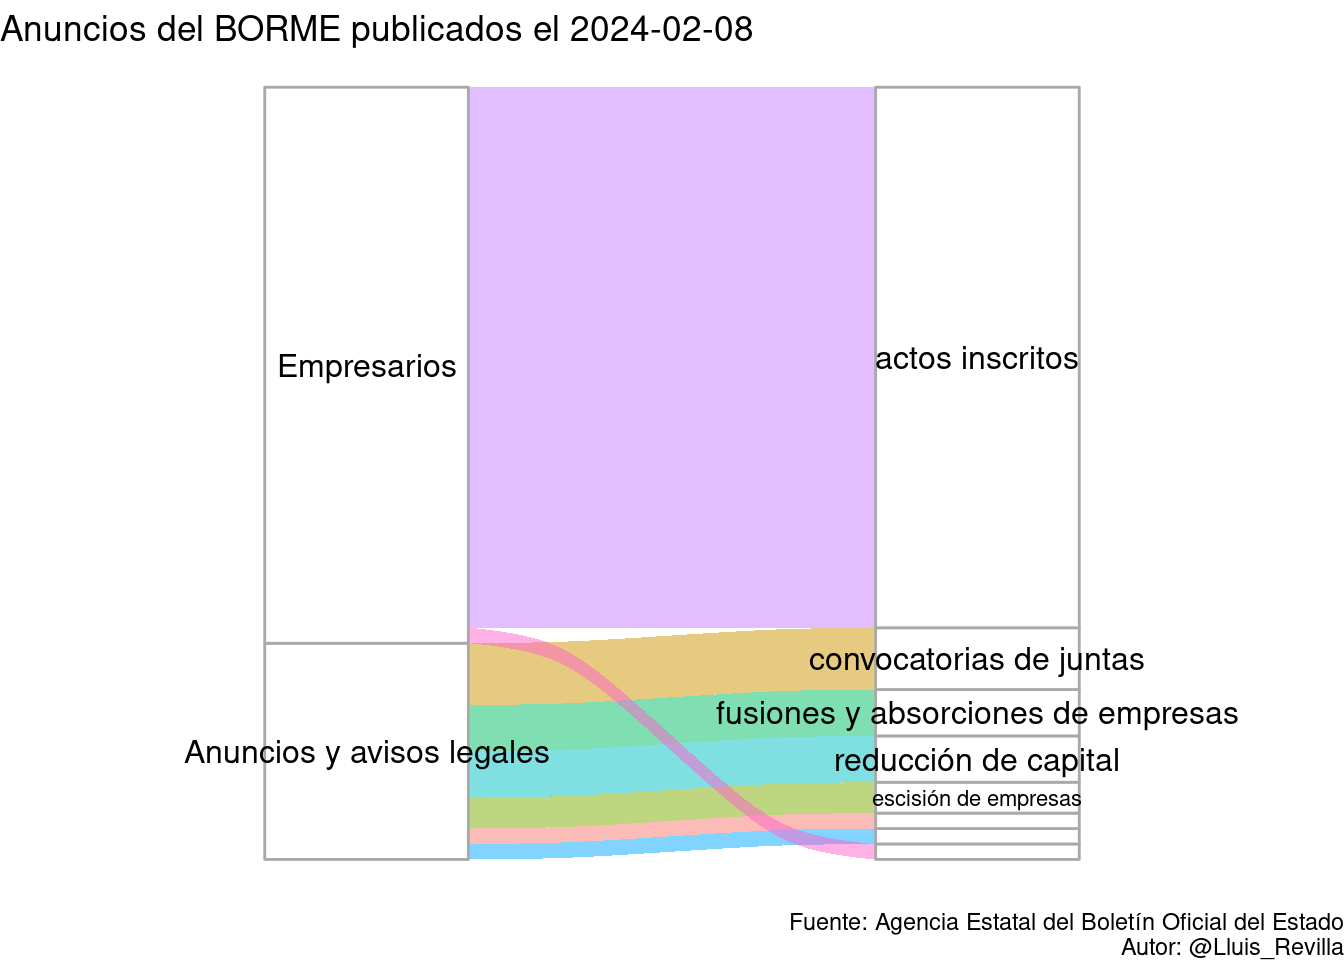
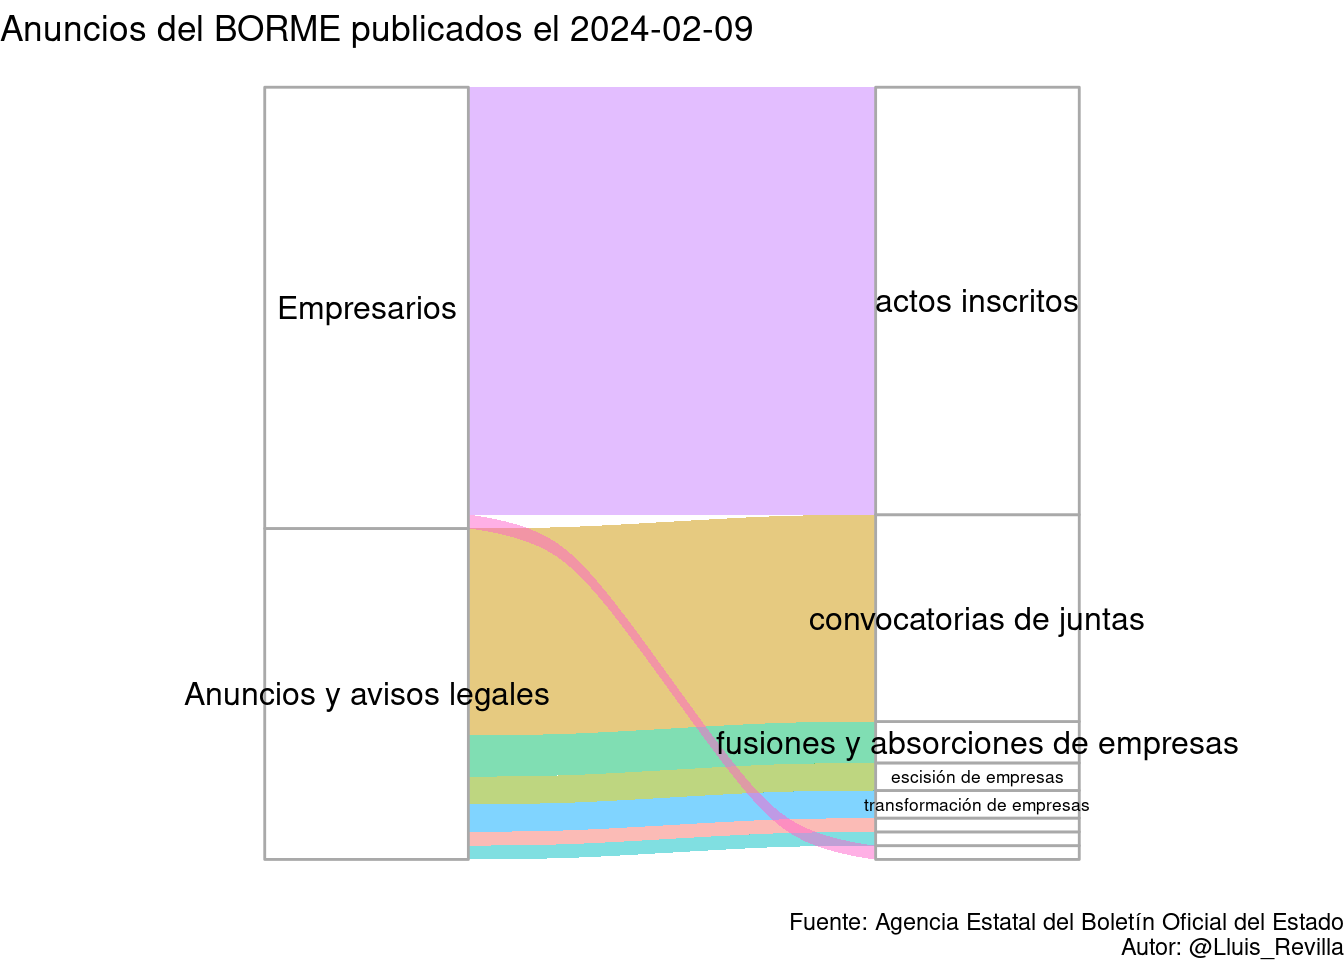
Update BORME

diff --git a/docs/last_BORME.html b/docs/last_BORME.html
@@ -379,14 +379,14 @@ $(document).ready(function () {
 
 <div id="resumen-gráfico" class="section level1">
 <h1>Resumen gráfico</h1>
-<p>Esta página web contiene el último sumario del BORME publicado el 2024-02-08 con 50 publicaciones.</p>
+<p>Esta página web contiene el último sumario del BORME publicado el 2024-02-09 con 56 publicaciones.</p>
 <p><img src="last_BORME_files/figure-html/graphics-1.png" width="672" /></p>
 </div>
 <div id="tabla-de-publicaciones" class="section level1">
 <h1>Tabla de publicaciones</h1>
 <p>Aquí está la tabla completa con enlaces a las publicaciones:</p>
-<div class="datatables html-widget html-fill-item-overflow-hidden html-fill-item" id="htmlwidget-0fc75fa31b694778085e" style="width:100%;height:auto;"></div>
-<script type="application/json" data-for="htmlwidget-0fc75fa31b694778085e">{"x":{"filter":"top","vertical":false,"filterHTML":"<tr>\n  <td><\/td>\n  <td data-type=\"character\" style=\"vertical-align: top;\">\n    <div class=\"form-group has-feedback\" style=\"margin-bottom: auto;\">\n      <input type=\"search\" placeholder=\"All\" class=\"form-control\" style=\"width: 100%;\"/>\n      <span class=\"glyphicon glyphicon-remove-circle form-control-feedback\"><\/span>\n    <\/div>\n  <\/td>\n  <td data-type=\"character\" style=\"vertical-align: top;\">\n    <div class=\"form-group has-feedback\" style=\"margin-bottom: auto;\">\n      <input type=\"search\" placeholder=\"All\" class=\"form-control\" style=\"width: 100%;\"/>\n      <span class=\"glyphicon glyphicon-remove-circle form-control-feedback\"><\/span>\n    <\/div>\n  <\/td>\n  <td data-type=\"character\" style=\"vertical-align: top;\">\n    <div class=\"form-group has-feedback\" style=\"margin-bottom: auto;\">\n      <input type=\"search\" placeholder=\"All\" class=\"form-control\" style=\"width: 100%;\" disabled=\"\"/>\n      <span class=\"glyphicon glyphicon-remove-circle form-control-feedback\"><\/span>\n    <\/div>\n  <\/td>\n  <td data-type=\"character\" style=\"vertical-align: top;\">\n    <div class=\"form-group has-feedback\" style=\"margin-bottom: auto;\">\n      <input type=\"search\" placeholder=\"All\" class=\"form-control\" style=\"width: 100%;\"/>\n      <span class=\"glyphicon glyphicon-remove-circle form-control-feedback\"><\/span>\n    <\/div>\n  <\/td>\n<\/tr>","data":[["1","2","3","4","5","6","7","8","9","10","11","12","13","14","15","16","17","18","19","20","21","22","23","24","25","26","27","28","29","30","31","32","33","34","35","36","37","38","39","40","41","42","43","44","45","46","47","48","49","50"],["SECCIÓN PRIMERA. Empresarios","SECCIÓN PRIMERA. Empresarios","SECCIÓN PRIMERA. Empresarios","SECCIÓN PRIMERA. Empresarios","SECCIÓN PRIMERA. Empresarios","SECCIÓN PRIMERA. Empresarios","SECCIÓN PRIMERA. Empresarios","SECCIÓN PRIMERA. Empresarios","SECCIÓN PRIMERA. Empresarios","SECCIÓN PRIMERA. Empresarios","SECCIÓN PRIMERA. Empresarios","SECCIÓN PRIMERA. Empresarios","SECCIÓN PRIMERA. Empresarios","SECCIÓN PRIMERA. Empresarios","SECCIÓN PRIMERA. Empresarios","SECCIÓN PRIMERA. Empresarios","SECCIÓN PRIMERA. Empresarios","SECCIÓN PRIMERA. Empresarios","SECCIÓN PRIMERA. Empresarios","SECCIÓN PRIMERA. Empresarios","SECCIÓN PRIMERA. Empresarios","SECCIÓN PRIMERA. Empresarios","SECCIÓN PRIMERA. Empresarios","SECCIÓN PRIMERA. Empresarios","SECCIÓN PRIMERA. Empresarios","SECCIÓN PRIMERA. Empresarios","SECCIÓN PRIMERA. Empresarios","SECCIÓN PRIMERA. Empresarios","SECCIÓN PRIMERA. Empresarios","SECCIÓN PRIMERA. Empresarios","SECCIÓN PRIMERA. Empresarios","SECCIÓN PRIMERA. Empresarios","SECCIÓN PRIMERA. Empresarios","SECCIÓN PRIMERA. Empresarios","SECCIÓN PRIMERA. Empresarios","SECCIÓN PRIMERA. Empresarios","SECCIÓN SEGUNDA. Anuncios y avisos legales","SECCIÓN SEGUNDA. Anuncios y avisos legales","SECCIÓN SEGUNDA. Anuncios y avisos legales","SECCIÓN SEGUNDA. Anuncios y avisos legales","SECCIÓN SEGUNDA. Anuncios y avisos legales","SECCIÓN SEGUNDA. Anuncios y avisos legales","SECCIÓN SEGUNDA. Anuncios y avisos legales","SECCIÓN SEGUNDA. Anuncios y avisos legales","SECCIÓN SEGUNDA. Anuncios y avisos legales","SECCIÓN SEGUNDA. Anuncios y avisos legales","SECCIÓN SEGUNDA. Anuncios y avisos legales","SECCIÓN SEGUNDA. Anuncios y avisos legales","SECCIÓN SEGUNDA. Anuncios y avisos legales","SECCIÓN SEGUNDA. Anuncios y avisos legales"],["Actos inscritos","Actos inscritos","Actos inscritos","Actos inscritos","Actos inscritos","Actos inscritos","Actos inscritos","Actos inscritos","Actos inscritos","Actos inscritos","Actos inscritos","Actos inscritos","Actos inscritos","Actos inscritos","Actos inscritos","Actos inscritos","Actos inscritos","Actos inscritos","Actos inscritos","Actos inscritos","Actos inscritos","Actos inscritos","Actos inscritos","Actos inscritos","Actos inscritos","Actos inscritos","Actos inscritos","Actos inscritos","Actos inscritos","Actos inscritos","Actos inscritos","Actos inscritos","Actos inscritos","Actos inscritos","Actos inscritos","Otros actos publicados en el Registro Mercantil","CONVOCATORIAS DE JUNTAS","CONVOCATORIAS DE JUNTAS","CONVOCATORIAS DE JUNTAS","CONVOCATORIAS DE JUNTAS","FUSIONES Y ABSORCIONES DE EMPRESAS","FUSIONES Y ABSORCIONES DE EMPRESAS","FUSIONES Y ABSORCIONES DE EMPRESAS","ESCISIÓN DE EMPRESAS","ESCISIÓN DE EMPRESAS","TRANSFORMACIÓN DE EMPRESAS","AUMENTO DE CAPITAL","REDUCCIÓN DE CAPITAL","REDUCCIÓN DE CAPITAL","REDUCCIÓN DE CAPITAL"],[null,null,null,null,null,null,null,null,null,null,null,null,null,null,null,null,null,null,null,null,null,null,null,null,null,null,null,null,null,null,null,null,null,null,null,null,null,null,null,null,null,null,null,null,null,null,null,null,null,null],["BORME-A-2024-28-02","BORME-A-2024-28-03","BORME-A-2024-28-04","BORME-A-2024-28-06","BORME-A-2024-28-07","BORME-A-2024-28-08","BORME-A-2024-28-09","BORME-A-2024-28-11","BORME-A-2024-28-13","BORME-A-2024-28-14","BORME-A-2024-28-15","BORME-A-2024-28-16","BORME-A-2024-28-17","BORME-A-2024-28-18","BORME-A-2024-28-22","BORME-A-2024-28-27","BORME-A-2024-28-28","BORME-A-2024-28-29","BORME-A-2024-28-30","BORME-A-2024-28-31","BORME-A-2024-28-32","BORME-A-2024-28-33","BORME-A-2024-28-35","BORME-A-2024-28-36","BORME-A-2024-28-38","BORME-A-2024-28-40","BORME-A-2024-28-42","BORME-A-2024-28-43","BORME-A-2024-28-45","BORME-A-2024-28-46","BORME-A-2024-28-47","BORME-A-2024-28-48","BORME-A-2024-28-49","BORME-A-2024-28-52","BORME-A-2024-28-99","BORME-B-2024-28-32","BORME-C-2024-409","BORME-C-2024-410","BORME-C-2024-411","BORME-C-2024-412","BORME-C-2024-413","BORME-C-2024-414","BORME-C-2024-415","BORME-C-2024-416","BORME-C-2024-417","BORME-C-2024-418","BORME-C-2024-419","BORME-C-2024-420","BORME-C-2024-421","BORME-C-2024-422"]],"container":"<table class=\"display\">\n  <thead>\n    <tr>\n      <th> <\/th>\n      <th>Sección<\/th>\n      <th>Emisor<\/th>\n      <th>Texto<\/th>\n      <th>Link<\/th>\n    <\/tr>\n  <\/thead>\n<\/table>","options":{"pageLength":10,"autoWidth":true,"columnDefs":[{"orderable":false,"targets":0},{"name":" ","targets":0},{"name":"Sección","targets":1},{"name":"Emisor","targets":2},{"name":"Texto","targets":3},{"name":"Link","targets":4}],"order":[],"orderClasses":false,"orderCellsTop":true}},"evals":[],"jsHooks":[]}</script>
+<div class="datatables html-widget html-fill-item-overflow-hidden html-fill-item" id="htmlwidget-b404a2050a033b5b77ad" style="width:100%;height:auto;"></div>
+<script type="application/json" data-for="htmlwidget-b404a2050a033b5b77ad">{"x":{"filter":"top","vertical":false,"filterHTML":"<tr>\n  <td><\/td>\n  <td data-type=\"character\" style=\"vertical-align: top;\">\n    <div class=\"form-group has-feedback\" style=\"margin-bottom: auto;\">\n      <input type=\"search\" placeholder=\"All\" class=\"form-control\" style=\"width: 100%;\"/>\n      <span class=\"glyphicon glyphicon-remove-circle form-control-feedback\"><\/span>\n    <\/div>\n  <\/td>\n  <td data-type=\"character\" style=\"vertical-align: top;\">\n    <div class=\"form-group has-feedback\" style=\"margin-bottom: auto;\">\n      <input type=\"search\" placeholder=\"All\" class=\"form-control\" style=\"width: 100%;\"/>\n      <span class=\"glyphicon glyphicon-remove-circle form-control-feedback\"><\/span>\n    <\/div>\n  <\/td>\n  <td data-type=\"character\" style=\"vertical-align: top;\">\n    <div class=\"form-group has-feedback\" style=\"margin-bottom: auto;\">\n      <input type=\"search\" placeholder=\"All\" class=\"form-control\" style=\"width: 100%;\" disabled=\"\"/>\n      <span class=\"glyphicon glyphicon-remove-circle form-control-feedback\"><\/span>\n    <\/div>\n  <\/td>\n  <td data-type=\"character\" style=\"vertical-align: top;\">\n    <div class=\"form-group has-feedback\" style=\"margin-bottom: auto;\">\n      <input type=\"search\" placeholder=\"All\" class=\"form-control\" style=\"width: 100%;\"/>\n      <span class=\"glyphicon glyphicon-remove-circle form-control-feedback\"><\/span>\n    <\/div>\n  <\/td>\n<\/tr>","data":[["1","2","3","4","5","6","7","8","9","10","11","12","13","14","15","16","17","18","19","20","21","22","23","24","25","26","27","28","29","30","31","32","33","34","35","36","37","38","39","40","41","42","43","44","45","46","47","48","49","50","51","52","53","54","55","56"],["SECCIÓN PRIMERA. Empresarios","SECCIÓN PRIMERA. Empresarios","SECCIÓN PRIMERA. Empresarios","SECCIÓN PRIMERA. Empresarios","SECCIÓN PRIMERA. Empresarios","SECCIÓN PRIMERA. Empresarios","SECCIÓN PRIMERA. Empresarios","SECCIÓN PRIMERA. Empresarios","SECCIÓN PRIMERA. Empresarios","SECCIÓN PRIMERA. Empresarios","SECCIÓN PRIMERA. Empresarios","SECCIÓN PRIMERA. Empresarios","SECCIÓN PRIMERA. Empresarios","SECCIÓN PRIMERA. Empresarios","SECCIÓN PRIMERA. Empresarios","SECCIÓN PRIMERA. Empresarios","SECCIÓN PRIMERA. Empresarios","SECCIÓN PRIMERA. Empresarios","SECCIÓN PRIMERA. Empresarios","SECCIÓN PRIMERA. Empresarios","SECCIÓN PRIMERA. Empresarios","SECCIÓN PRIMERA. Empresarios","SECCIÓN PRIMERA. Empresarios","SECCIÓN PRIMERA. Empresarios","SECCIÓN PRIMERA. Empresarios","SECCIÓN PRIMERA. Empresarios","SECCIÓN PRIMERA. Empresarios","SECCIÓN PRIMERA. Empresarios","SECCIÓN PRIMERA. Empresarios","SECCIÓN PRIMERA. Empresarios","SECCIÓN PRIMERA. Empresarios","SECCIÓN PRIMERA. Empresarios","SECCIÓN SEGUNDA. Anuncios y avisos legales","SECCIÓN SEGUNDA. Anuncios y avisos legales","SECCIÓN SEGUNDA. Anuncios y avisos legales","SECCIÓN SEGUNDA. Anuncios y avisos legales","SECCIÓN SEGUNDA. Anuncios y avisos legales","SECCIÓN SEGUNDA. Anuncios y avisos legales","SECCIÓN SEGUNDA. Anuncios y avisos legales","SECCIÓN SEGUNDA. Anuncios y avisos legales","SECCIÓN SEGUNDA. Anuncios y avisos legales","SECCIÓN SEGUNDA. Anuncios y avisos legales","SECCIÓN SEGUNDA. Anuncios y avisos legales","SECCIÓN SEGUNDA. Anuncios y avisos legales","SECCIÓN SEGUNDA. Anuncios y avisos legales","SECCIÓN SEGUNDA. Anuncios y avisos legales","SECCIÓN SEGUNDA. Anuncios y avisos legales","SECCIÓN SEGUNDA. Anuncios y avisos legales","SECCIÓN SEGUNDA. Anuncios y avisos legales","SECCIÓN SEGUNDA. Anuncios y avisos legales","SECCIÓN SEGUNDA. Anuncios y avisos legales","SECCIÓN SEGUNDA. Anuncios y avisos legales","SECCIÓN SEGUNDA. Anuncios y avisos legales","SECCIÓN SEGUNDA. Anuncios y avisos legales","SECCIÓN SEGUNDA. Anuncios y avisos legales","SECCIÓN SEGUNDA. Anuncios y avisos legales"],["Actos inscritos","Actos inscritos","Actos inscritos","Actos inscritos","Actos inscritos","Actos inscritos","Actos inscritos","Actos inscritos","Actos inscritos","Actos inscritos","Actos inscritos","Actos inscritos","Actos inscritos","Actos inscritos","Actos inscritos","Actos inscritos","Actos inscritos","Actos inscritos","Actos inscritos","Actos inscritos","Actos inscritos","Actos inscritos","Actos inscritos","Actos inscritos","Actos inscritos","Actos inscritos","Actos inscritos","Actos inscritos","Actos inscritos","Actos inscritos","Actos inscritos","Otros actos publicados en el Registro Mercantil","CONVOCATORIAS DE JUNTAS","CONVOCATORIAS DE JUNTAS","CONVOCATORIAS DE JUNTAS","CONVOCATORIAS DE JUNTAS","CONVOCATORIAS DE JUNTAS","CONVOCATORIAS DE JUNTAS","CONVOCATORIAS DE JUNTAS","CONVOCATORIAS DE JUNTAS","CONVOCATORIAS DE JUNTAS","CONVOCATORIAS DE JUNTAS","CONVOCATORIAS DE JUNTAS","CONVOCATORIAS DE JUNTAS","CONVOCATORIAS DE JUNTAS","CONVOCATORIAS DE JUNTAS","CONVOCATORIAS DE JUNTAS","FUSIONES Y ABSORCIONES DE EMPRESAS","FUSIONES Y ABSORCIONES DE EMPRESAS","FUSIONES Y ABSORCIONES DE EMPRESAS","ESCISIÓN DE EMPRESAS","ESCISIÓN DE EMPRESAS","REACTIVACIÓN DE EMPRESAS","TRANSFORMACIÓN DE EMPRESAS","TRANSFORMACIÓN DE EMPRESAS","AUMENTO DE CAPITAL"],[null,null,null,null,null,null,null,null,null,null,null,null,null,null,null,null,null,null,null,null,null,null,null,null,null,null,null,null,null,null,null,null,null,null,null,null,null,null,null,null,null,null,null,null,null,null,null,null,null,null,null,null,null,null,null,null],["BORME-A-2024-29-03","BORME-A-2024-29-05","BORME-A-2024-29-06","BORME-A-2024-29-07","BORME-A-2024-29-08","BORME-A-2024-29-11","BORME-A-2024-29-12","BORME-A-2024-29-14","BORME-A-2024-29-17","BORME-A-2024-29-19","BORME-A-2024-29-20","BORME-A-2024-29-22","BORME-A-2024-29-24","BORME-A-2024-29-25","BORME-A-2024-29-28","BORME-A-2024-29-30","BORME-A-2024-29-31","BORME-A-2024-29-33","BORME-A-2024-29-34","BORME-A-2024-29-35","BORME-A-2024-29-36","BORME-A-2024-29-37","BORME-A-2024-29-39","BORME-A-2024-29-40","BORME-A-2024-29-41","BORME-A-2024-29-43","BORME-A-2024-29-46","BORME-A-2024-29-47","BORME-A-2024-29-49","BORME-A-2024-29-50","BORME-A-2024-29-99","BORME-B-2024-29-41","BORME-C-2024-423","BORME-C-2024-424","BORME-C-2024-425","BORME-C-2024-426","BORME-C-2024-427","BORME-C-2024-428","BORME-C-2024-429","BORME-C-2024-430","BORME-C-2024-431","BORME-C-2024-432","BORME-C-2024-433","BORME-C-2024-434","BORME-C-2024-435","BORME-C-2024-436","BORME-C-2024-437","BORME-C-2024-438","BORME-C-2024-439","BORME-C-2024-440","BORME-C-2024-441","BORME-C-2024-442","BORME-C-2024-443","BORME-C-2024-444","BORME-C-2024-445","BORME-C-2024-446"]],"container":"<table class=\"display\">\n  <thead>\n    <tr>\n      <th> <\/th>\n      <th>Sección<\/th>\n      <th>Emisor<\/th>\n      <th>Texto<\/th>\n      <th>Link<\/th>\n    <\/tr>\n  <\/thead>\n<\/table>","options":{"pageLength":10,"autoWidth":true,"columnDefs":[{"orderable":false,"targets":0},{"name":" ","targets":0},{"name":"Sección","targets":1},{"name":"Emisor","targets":2},{"name":"Texto","targets":3},{"name":"Link","targets":4}],"order":[],"orderClasses":false,"orderCellsTop":true}},"evals":[],"jsHooks":[]}</script>
 </div>
 
 
